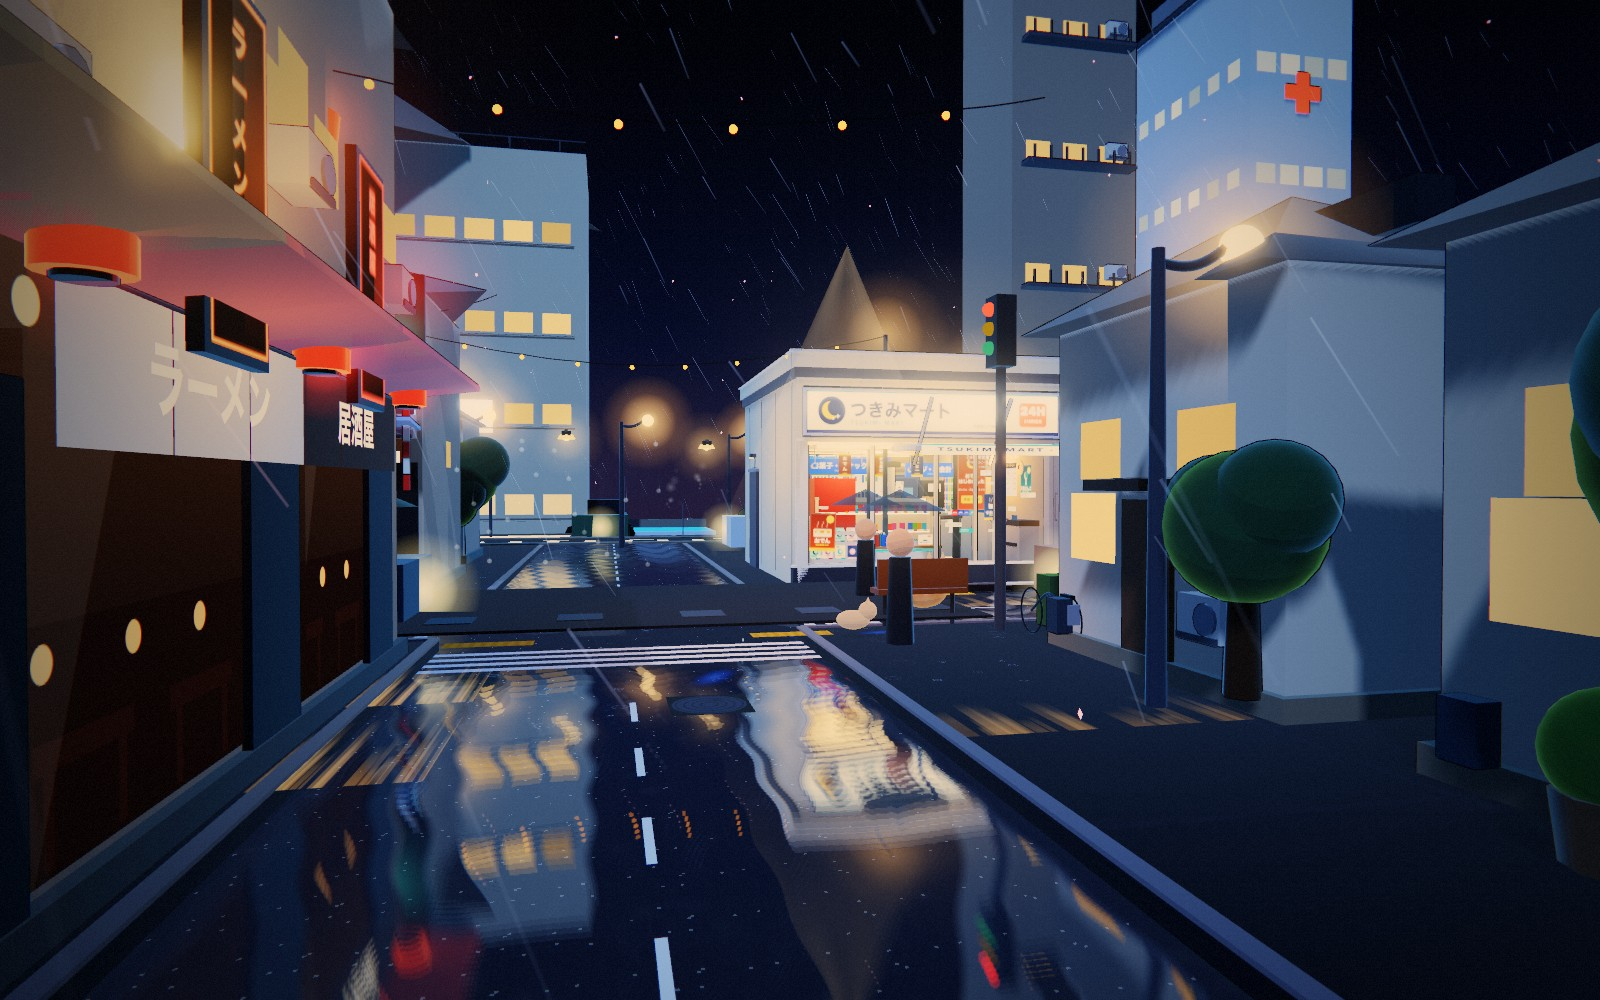
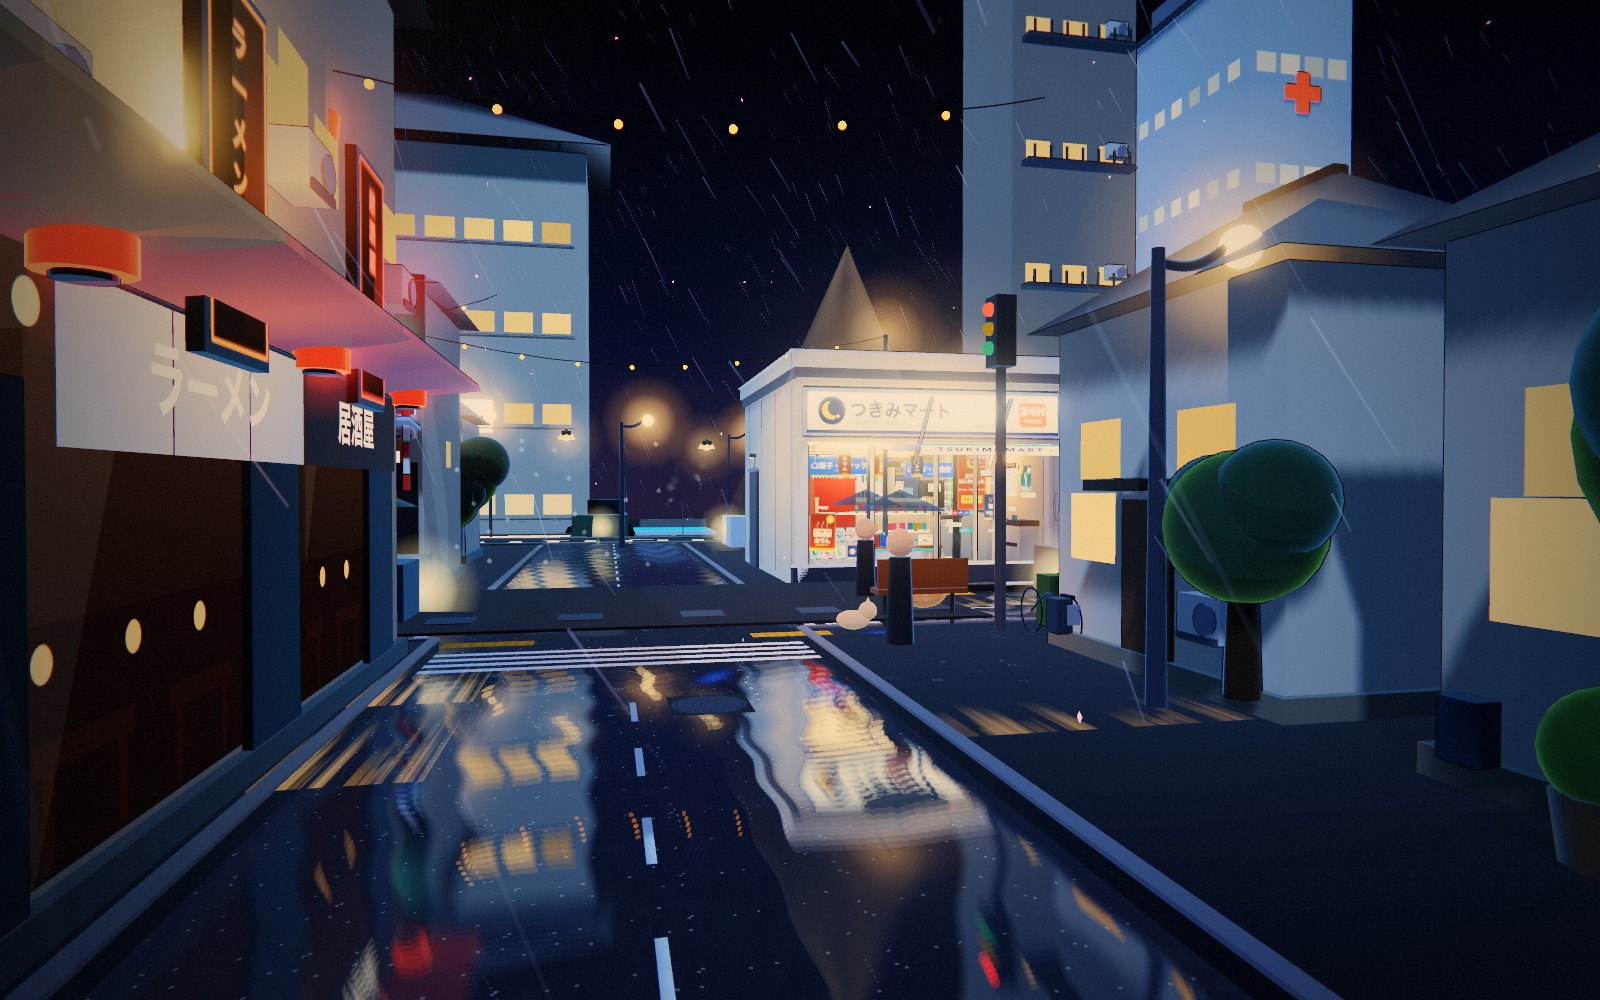
fix(konbini-rain): 修正歪斜的屋顶——所有坡屋顶改为贴合矩形轮廓的四坡屋面
- 新增 hipRoof()：矩形底面 + 屋脊 + 可控出檐，替换所有 ConeGeometry 非均匀缩放旋转的旧屋顶
- 学校 / 商店 / 住宅 / 神社 / 小屋屋顶全部对齐建筑轮廓，不再出现巨大斜面盖住立面
- 修复 school / shrine 视图参数，重新采集日间/夜间/街景截图
- README 住宅与店面数量校正，首页卡片/截图同步

diff --git a/apps/konbini-rain/src/world/city.js b/apps/konbini-rain/src/world/city.js
@@ -93,6 +93,42 @@ function hedge(parent, { x, z, w, d, h = 0.5 }) {
   }
 }
 
+/* 正确的四坡屋顶：矩形底面 + 屋脊，避免 ConeGeometry 非均匀缩放后旋转造成的歪斜和巨大出檐 */
+function hipRoof(w, d, rise, opts = {}) {
+  const overhang = opts.overhang ?? 0.3;
+  const ridge = opts.ridge ?? 0.28;
+  const color = opts.color || '#2f343c';
+  const hw = w / 2 + overhang;
+  const hd = d / 2 + overhang;
+  const alongX = w >= d;
+  const rh = Math.max(0.15, (alongX ? w : d) * ridge * 0.5);
+  const pos = alongX
+    ? [
+        -hw, 0, -hd,  hw, 0, -hd,  hw, 0, hd,  -hw, 0, hd,
+        -rh, rise, 0,  rh, rise, 0,
+      ]
+    : [
+        -hw, 0, -hd,  hw, 0, -hd,  hw, 0, hd,  -hw, 0, hd,
+        0, rise, -rh,  0, rise, rh,
+      ];
+  const idx = alongX
+    ? [0,1,5, 0,5,4, 2,3,4, 2,4,5, 3,0,4, 1,2,5]
+    : [0,1,4, 2,3,5, 3,0,4, 3,4,5, 1,2,5, 1,5,4];
+  const geo = new THREE.BufferGeometry();
+  geo.setAttribute('position', new THREE.Float32BufferAttribute(pos, 3));
+  geo.setIndex(idx);
+  geo.computeVertexNormals();
+  const roof = new THREE.Mesh(geo, toon(color, { rim: 0.2, rimColor: '#8fa8c8', side: THREE.DoubleSide }));
+  roof.castShadow = true;
+  roof.receiveShadow = true;
+  // 屋脊
+  const ridgeMesh = box(alongX ? rh * 2 : 0.14, 0.08, alongX ? 0.14 : rh * 2, toon('#20242a', { rim: 0.16 }), {
+    y: rise + 0.02, parent: roof,
+  });
+  ridgeMesh.castShadow = false;
+  return roof;
+}
+
 /* -------------------------------------------------------------------------- */
 /*  住宅                                                                       */
 /* -------------------------------------------------------------------------- */
@@ -107,16 +143,13 @@ function house(parent, cfg) {
   box(w, h, d, wall, { y: h / 2, parent: g, cast: true, receive: true });
   // 基座
   box(w + 0.16, 0.18, d + 0.16, toon('#8a8170', { rim: 0.12 }), { y: 0.09, parent: g, cast: false });
-  // 屋顶
+  // 屋顶（四坡屋面，底面贴合建筑）
   const roofH = h * 0.32;
-  const roof = mesh(new THREE.ConeGeometry(1, 1, 4), toon(cfg.roofColor || '#2f343c', { rim: 0.2, rimColor: '#8fa8c8' }), {
-    y: h + roofH / 2, parent: g, cast: true,
+  const roof = hipRoof(w, d, roofH, {
+    overhang: 0.26, ridge: 0.34, color: cfg.roofColor || '#2f343c',
   });
-  roof.scale.set(w * 0.78, roofH, d * 0.82);
-  roof.rotation.y = Math.PI / 4;
-  if (cfg.roof === 'gable') {
-    box(w * 0.9, roofH * 0.35, d * 0.12, toon('#2a3038', { rim: 0.18 }), { y: h + roofH * 0.55, parent: g, cast: false });
-  }
+  roof.position.y = h + 0.04;
+  g.add(roof);
   // 正门 + 窗
   const zf = d / 2 + 0.01;
   box(0.7, 1.45, 0.08, toon('#6a4a32', { rim: 0.14 }), { z: zf, y: 0.8, parent: g, cast: false });
@@ -248,12 +281,11 @@ function shop(parent, cfg) {
   parent.add(g);
   box(w, h, d, toon('#b8ac98', { rim: 0.16, rimColor: '#a8c4e4', gradient: 'soft' }), { y: h / 2, parent: g, cast: true, receive: true });
   box(w + 0.16, 0.16, d + 0.16, toon('#6a6558', { rim: 0.12 }), { y: 0.08, parent: g, cast: false });
-  // 屋顶：坡屋顶 + 屋脊
-  const roofH = Math.max(0.7, w * 0.22);
-  const shopRoof = mesh(new THREE.ConeGeometry(1, 1, 4), toon('#2f343c', { rim: 0.2, rimColor: '#8fa8c8' }), { y: h + roofH / 2, parent: g, cast: true });
-  shopRoof.scale.set(w * 0.74, roofH, d * 0.72);
-  shopRoof.rotation.y = Math.PI / 4;
-  box(w * 0.86, roofH * 0.22, d * 0.1, toon('#20242a', { rim: 0.16 }), { y: h + roofH * 0.55, parent: g, cast: false });
+  // 屋顶：四坡屋面 + 屋脊
+  const roofH = Math.max(0.65, w * 0.2);
+  const shopRoof = hipRoof(w, d, roofH, { overhang: 0.32, ridge: 0.24, color: '#2f343c' });
+  shopRoof.position.y = h + 0.04;
+  g.add(shopRoof);
   // 一层店面玻璃
   const glassW = w - 0.5;
   const glassH = 2.3;
@@ -338,10 +370,10 @@ function schoolCampus(parent) {
   cyl(0.16, 0.22, 4.0, 8, toon('#d8d4c8', { rim: 0.18 }), { x: -s.w * 0.36, y: s.h + 2.0, z: 0, parent: sg, cast: true });
   box(0.5, 0.5, 0.5, toon('#f0ece0', { rim: 0.2 }), { x: -s.w * 0.36, y: s.h + 4.1, z: 0, parent: sg, cast: true });
   cyl(0.19, 0.19, 0.04, 16, toon('#2a3038', { rim: 0.2 }), { x: -s.w * 0.36, y: s.h + 4.18, z: 0.24, rx: Math.PI / 2, parent: sg, cast: false });
-  // 大屋顶 + 栏杆
-  const schoolRoof = mesh(new THREE.ConeGeometry(1, 1, 4), toon('#2a3038', { rim: 0.2, rimColor: '#8fa8c8' }), { y: s.h + 1.1, parent: sg, cast: true });
-  schoolRoof.scale.set(s.w * 0.76, 2.2, s.d * 0.82);
-  schoolRoof.rotation.y = Math.PI / 4;
+  // 大屋顶（贴合校舍轮廓）
+  const schoolRoof = hipRoof(s.w + 0.4, s.d + 0.4, 2.2, { overhang: 0.55, ridge: 0.26, color: '#2a3038' });
+  schoolRoof.position.y = s.h + 0.08;
+  sg.add(schoolRoof);
   for (let i = 0; i < 8; i += 1) cyl(0.02, 0.02, 0.4, 4, toon('#5d636b', { rim: 0.1 }), { x: -s.w / 2 + 0.8 + i * ((s.w - 1.6) / 7), y: s.h + 0.2, z: s.d / 2 - 0.1, parent: sg, cast: false });
   box(s.w, 0.03, 0.03, toon('#5d636b', { rim: 0.1 }), { y: s.h + 0.4, z: s.d / 2 - 0.1, parent: sg, cast: false });
 
@@ -438,8 +470,9 @@ function shrine(parent) {
   g.add(shrineBody);
   box(4.0, 2.0, 2.8, toon('#8a6a4c', { rim: 0.16 }), { y: 1.0, parent: shrineBody, cast: true });
   box(4.8, 0.26, 3.4, toon('#3a3030', { rim: 0.2 }), { y: 2.15, parent: shrineBody, cast: true });
-  const roof = mesh(new THREE.ConeGeometry(1, 1, 4), toon('#3a3030', { rim: 0.2 }), { y: 2.8, parent: shrineBody, cast: true });
-  roof.scale.set(3.4, 1.3, 2.6); roof.rotation.y = Math.PI / 4;
+  const roof = hipRoof(4.0, 2.8, 1.25, { overhang: 0.5, ridge: 0.3, color: '#3a3030' });
+  roof.position.y = 2.15;
+  shrineBody.add(roof);
   // 注连绳 / 铃
   cyl(0.05, 0.05, 4.2, 8, toon('#d8d4c8', { rim: 0.12 }), { y: 2.05, z: 1.5, rx: Math.PI / 2, parent: shrineBody, cast: false });
   for (const dx of [-0.5, 0.5]) chochin(shrineBody, { x: dx, y: 1.75, z: 1.6, r: 0.13, color: '#e8dcc0', text: '献灯', glowSize: 0.8 });
@@ -1250,9 +1283,9 @@ function cottage(parent, x, z, ry, color) {
   box(w, h, d, toon(color, { rim: 0.14, rimColor: '#a8c4e4', gradient: 'soft' }), { y: h / 2, parent: g, cast: true });
   box(w + 0.12, 0.14, d + 0.12, toon('#6a6558', { rim: 0.1 }), { y: 0.07, parent: g, cast: false });
   const roofH = h * 0.34;
-  const roof = mesh(new THREE.ConeGeometry(1, 1, 4), toon('#2f343c', { rim: 0.18, rimColor: '#8fa8c8' }), { y: h + roofH / 2, parent: g, cast: true });
-  roof.scale.set(w * 0.78, roofH, d * 0.8);
-  roof.rotation.y = Math.PI / 4;
+  const roof = hipRoof(w, d, roofH, { overhang: 0.24, ridge: 0.3, color: '#2f343c' });
+  roof.position.y = h + 0.03;
+  g.add(roof);
   box(0.6, 1.3, 0.06, toon('#5a3f2c', { rim: 0.12 }), { z: d / 2 + 0.02, y: 0.72, parent: g, cast: false });
   litWindow(g, { x: -w * 0.26, y: 1.35, z: d / 2 + 0.03, w: 0.55, h: 0.5, color: rand() > 0.5 ? '#ffcf94' : '#ffd9a0', lit: 0.6 + rand() * 0.4 });
   litWindow(g, { x: w * 0.26, y: 1.35, z: d / 2 + 0.03, w: 0.55, h: 0.5, color: '#ffd9a0', lit: 0.45 + rand() * 0.4 });

diff --git a/apps/konbini-rain/src/config.js b/apps/konbini-rain/src/config.js
@@ -357,7 +357,7 @@ export const VIEWS = {
   homes: { target: [-10.0, 1.8, -8.0], radius: 24, az: 0.65, el: 0.9, fov: 36 },
   shrine: { target: [-18.0, 2.0, 6.2], radius: 19, az: 0.95, el: 0.78, fov: 38 },
   rail: { target: [17.8, 1.8, 2.0], radius: 17, az: 1.3, el: 0.9, fov: 36 },
-  school: { target: [-7.0, 2.6, -18.4], radius: 28, az: 0.32, el: 0.62, fov: 36 },
+  school: { target: [-7.0, 3.0, -17.2], radius: 30, az: 0.42, el: 1.05, fov: 36 },
   river: { target: [0.0, 1.4, 16.8], radius: 26, az: 0.45, el: 0.82, fov: 36 },
   top: { target: [0, 1.0, 0.2], radius: 112, az: 0.55, el: 0.5, fov: 33 },
   inside: { target: [5.6, 1.3, -5.4], radius: 4.8, az: 0.14, el: 1.42, fov: 44 },
